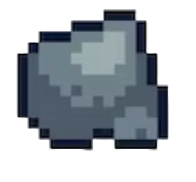
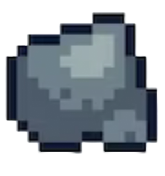
Scale projectile images. Fix spawning of monster.

diff --git a/core/src/com/mygdx/game/ds/Board.java b/core/src/com/mygdx/game/ds/Board.java
@@ -78,7 +78,7 @@ public class Board extends Actor {
     private boolean isInputProcessorAdded;
     private int rightPaneWidth;
     private final Engine engine;
-    private final MoneySystem moneySystem = new MoneySystem(8000);
+    private final MoneySystem moneySystem = new MoneySystem(1200);
 
 
 
@@ -126,9 +126,9 @@ public class Board extends Actor {
         Texture counterIcon = new Texture("images/coin2.png");
 
         this.batch.begin();
-        font.draw(batch, String.valueOf(moneySystem.getMoney()), iconX + iconSize * 1.5f, iconY + iconSize * 0.75f);
+        font.draw(batch, String.valueOf(moneySystem.getMoney()), iconX + iconSize * 1.5f - rightPaneWidth - 50, iconY + iconSize * 0.75f);
 
-        batch.draw(counterIcon, iconX, iconY, iconSize, iconSize);
+        batch.draw(counterIcon, iconX - 100, iconY, iconSize, iconSize);
         this.batch.end();
     }
 
@@ -217,15 +217,13 @@ public class Board extends Actor {
 
         //Creates new hero entity and sets its position to the middle of the clicked cell
         if (getChosenHeroType() != null) {
-        placeHero(entityPlacement);
-        System.out.println("Cell clicked: row " + row + ", col " + col);
-        moneySystem.removeMoney(450);
+            placeHero(entityPlacement);
+            System.out.println("Cell clicked: row " + row + ", col " + col);
+            moneySystem.removeMoney(450);
         } else if (getChosenMonsterType() != null) {
-        //Creates a new monster entity and places it in the midddle of the cell
-        placeMonster(entityPlacement);
+            //Creates a new monster entity and places it in the midddle of the cell
+            placeMonster(entityPlacement);
         }
-
-
     }
 
     public void drawHeroes() {
@@ -421,12 +419,25 @@ public class Board extends Actor {
 
     private void placeHero(Vector2 placementPosition) {
         if (chosenHeroType != null) {
-            Entity hero = HeroFactory.createHero(getChosenHeroType(), placementPosition);
-            engine.addEntity(hero);
-            System.out.println("Created new hero entity and added to game engine");
-            System.out.println("all heroes: :)");
-            for (Entity e : engine.getEntitiesFor(Family.all(HeroComponent.class).get())) {
-                System.out.println(e.getComponent(HeroComponent.class).getHeroType());
+            //Check if hero is already placed in the cell
+            boolean cellHasHero = false;
+            float epsilon = 0.0001f;
+            ComponentMapper<PositionComponent> positionMapper;
+            positionMapper = ComponentMapper.getFor(PositionComponent.class);
+            for (Entity e : engine.getEntitiesFor(Family.all(HeroComponent.class, AttackComponent.class).get())) {
+                PositionComponent position = positionMapper.get(e);
+                Vector2 heroPos = position.getPosition();
+                if (heroPos.epsilonEquals(placementPosition, epsilon)) {
+                    System.out.println("There is already a hero in this cell");
+                    cellHasHero = true;
+                    break;
+                }
+            }
+            //Place a new hero entity at the given position if the cell is empty
+            if (!cellHasHero) {
+                Entity hero = HeroFactory.createHero(getChosenHeroType(), placementPosition);
+                engine.addEntity(hero);
+                System.out.println("Created new hero entity and added to game engine");
             }
         }
     }
@@ -438,7 +449,7 @@ public class Board extends Actor {
             float epsilon = 0.0001f;
             ComponentMapper<PositionComponent> positionMapper;
             positionMapper = ComponentMapper.getFor(PositionComponent.class);
-            for (Entity e : engine.getEntitiesFor(Family.all(HeroComponent.class, AttackComponent.class).get())) {
+            for (Entity e : engine.getEntitiesFor(Family.all(MonsterComponent.class, AttackComponent.class).get())) {
                 PositionComponent position = positionMapper.get(e);
                 Vector2 monsterPos = position.getPosition();
                 if (monsterPos.epsilonEquals(placementPosition, epsilon)) {

diff --git a/core/src/com/mygdx/game/states/PlayState.java b/core/src/com/mygdx/game/states/PlayState.java
@@ -25,6 +25,7 @@ import com.mygdx.game.MoneySystem;
 import com.mygdx.game.SoundManager;
 import com.mygdx.game.components.AttackComponent;
 import com.mygdx.game.components.HeroComponent;
+import com.mygdx.game.components.MonsterComponent;
 import com.mygdx.game.components.PositionComponent;
 import com.mygdx.game.components.ProjectileComponent;
 import com.mygdx.game.components.SpriteComponent;
@@ -32,8 +33,11 @@ import com.mygdx.game.ds.Board;
 import com.mygdx.game.entities.DisplayHero;
 import com.mygdx.game.entities.HeroFactory;
 import com.mygdx.game.ds.buttons.RectangleButton;
+import com.mygdx.game.systems.CollisionSystem;
 import com.mygdx.game.systems.HeroSystem;
+import com.mygdx.game.systems.MonsterMovementSystem;
 import com.mygdx.game.systems.ProjectileMovementSystem;
+import com.mygdx.game.systems.WaveSystem;
 import com.mygdx.game.types.HeroType;
 import com.mygdx.game.utils.Enums;
 
@@ -80,9 +84,15 @@ public class PlayState extends State{
         //Systems for game logic
         HeroSystem heroSystem = new HeroSystem(engine);
         ProjectileMovementSystem projectileMovementSystem = new ProjectileMovementSystem(engine);
+        WaveSystem waveSystem = new WaveSystem(engine);
+        MonsterMovementSystem monsterMovementSystem = new MonsterMovementSystem(engine);
+        CollisionSystem collisionSystem = new CollisionSystem(engine);
 
         engine.addSystem(heroSystem);
         engine.addSystem(projectileMovementSystem);
+        engine.addSystem(waveSystem);
+        engine.addSystem(monsterMovementSystem);
+        engine.addSystem(collisionSystem);
 
         /*Entity spiderman = HeroFactory.createHero(HeroType.SPIDERMAN, new Vector2(50, 50));
         Entity captain = HeroFactory.createHero(HeroType.CAPTAIN_AMERICA, new Vector2(50, 50));
@@ -146,8 +156,19 @@ public class PlayState extends State{
         }
     }
 
+
+
     public void renderProjectiles(SpriteBatch batch) {
         for (Entity e : engine.getEntitiesFor(Family.all(ProjectileComponent.class, PositionComponent.class).get())) {
+            Texture sprite = e.getComponent(SpriteComponent.class).getSprite();
+            Vector2 position = e.getComponent(PositionComponent.class).getPosition();
+
+            batch.draw(sprite, position.x, position.y, (float) board.getTextureWidth(), (float) board.getTextureHeight());
+        }
+    }
+
+    public void renderMonsters(SpriteBatch batch) {
+        for (Entity e : engine.getEntitiesFor(Family.all(MonsterComponent.class, PositionComponent.class).get())) {
             Texture sprite = e.getComponent(SpriteComponent.class).getSprite();
             Vector2 position = e.getComponent(PositionComponent.class).getPosition();
 
@@ -165,6 +186,7 @@ public class PlayState extends State{
         board.render(batch);
         renderHeroes(batch);
         renderProjectiles(batch);
+        renderMonsters(batch);
         batch.draw(menuButton.getImg(), menuButton.getPosition().x - menuButton.getWidth() / 2f,10,  menuButton.getWidth(), menuButton.getHeight());
         batch.end();
 

diff --git a/core/src/com/mygdx/game/systems/WaveSystem.java b/core/src/com/mygdx/game/systems/WaveSystem.java
@@ -1,10 +1,13 @@
 package com.mygdx.game.systems;
 
+import static com.badlogic.gdx.math.MathUtils.random;
+
 import com.badlogic.ashley.core.ComponentMapper;
 import com.badlogic.ashley.core.Engine;
 import com.badlogic.ashley.core.Entity;
 import com.badlogic.ashley.core.Family;
 import com.badlogic.ashley.systems.IteratingSystem;
+import com.badlogic.gdx.Gdx;
 import com.badlogic.gdx.math.Vector2;
 import com.mygdx.game.components.WaveComponent;
 import com.mygdx.game.entities.MonsterFactory;
@@ -16,6 +19,7 @@ public class WaveSystem extends IteratingSystem {
     private ComponentMapper<WaveComponent> waveMapper;
     private MonsterType[] monsterTypes;
     private Engine engine;
+    private float[] rows = {Gdx.graphics.getHeight()/4, Gdx.graphics.getHeight()/5, Gdx.graphics.getHeight()/3, 0};
 
     public WaveSystem(Engine engine) {
         super(Family.all(WaveComponent.class).get());
@@ -29,7 +33,7 @@ public class WaveSystem extends IteratingSystem {
     private void initializeWaveSystem() {
         //Initializes the first wave
         Entity waveEntity = new Entity();
-        WaveComponent waveComponent = new WaveComponent(1, 1);
+        WaveComponent waveComponent = new WaveComponent(4, 1);
         waveEntity.add(waveComponent);
         engine.addEntity(waveEntity);
     }
@@ -74,7 +78,12 @@ public class WaveSystem extends IteratingSystem {
     private void spawnMonster(WaveComponent wave) {
         wave.setTimeSinceLastSpawn(0f);
         //TODO monster should not be placed inside a cell
-        Entity monster = MonsterFactory.createMonster(getRandomType(), new Vector2(1500f, 350f));
+        Entity monster = MonsterFactory.createMonster(getRandomType(), new Vector2(1500f, getRandomRow()));
+
         engine.addEntity(monster);
+    }
+
+    private float getRandomRow() {
+        return rows[random.nextInt(rows.length)];
     }
 }

diff --git a/core/src/com/mygdx/game/entities/ProjectileFactory.java b/core/src/com/mygdx/game/entities/ProjectileFactory.java
@@ -18,7 +18,7 @@ public class ProjectileFactory {
         Entity projectile = new Entity();
         projectile.add(new ProjectileComponent(true, getProjectileSpeed(heroType), sourceEntity));
         projectile.add(new SpriteComponent(getProjectileSprite(heroType)));
-        projectile.add(new CollisionComponent(new Rectangle(startingPosition.x, startingPosition.y, Gdx.graphics.getWidth()/30f, Gdx.graphics.getHeight()/30f)));
+        projectile.add(new CollisionComponent(new Rectangle(startingPosition.x, startingPosition.y, Gdx.graphics.getWidth()/30f, Gdx.graphics.getHeight()/10f)));
         projectile.add(new PositionComponent(startingPosition));
         return projectile;
     }

diff --git a/core/src/com/mygdx/game/entities/MonsterFactory.java b/core/src/com/mygdx/game/entities/MonsterFactory.java
@@ -21,7 +21,7 @@ public class MonsterFactory {
         monster.add(new SpriteComponent(getMonsterSprite(monsterType)));
         monster.add(new PositionComponent(boardPosition));
         monster.add(new MonsterComponent(monsterType, getMonsterMovementSpeed(monsterType)));
-        monster.add(new CollisionComponent(new Rectangle(boardPosition.x, boardPosition.y, Gdx.graphics.getWidth()/30f, Gdx.graphics.getHeight()/30f)));
+        monster.add(new CollisionComponent(new Rectangle(boardPosition.x, boardPosition.y, Gdx.graphics.getWidth()/30f, Gdx.graphics.getHeight()/10f)));
         return monster;
     }
 

diff --git a/core/src/com/mygdx/game/systems/ProjectileMovementSystem.java b/core/src/com/mygdx/game/systems/ProjectileMovementSystem.java
@@ -44,5 +44,6 @@ public class ProjectileMovementSystem extends IteratingSystem {
         float speed = projectileComponent.getVelocity();
         positionComponent.setPosition(positionComponent.getPosition().add(speed, 0));
         collisionComponent.setHitbox(collisionComponent.getHitbox().setPosition(positionComponent.getPosition()));
+
     }
 }

diff --git a/core/src/com/mygdx/game/systems/MonsterMovementSystem.java b/core/src/com/mygdx/game/systems/MonsterMovementSystem.java
@@ -21,6 +21,7 @@ public class MonsterMovementSystem extends IteratingSystem {
         monsterMapper = ComponentMapper.getFor(MonsterComponent.class);
         positionMapper = ComponentMapper.getFor(PositionComponent.class);
         collisionMapper = ComponentMapper.getFor(CollisionComponent.class);
+
         this.engine = engine;
 
     }
